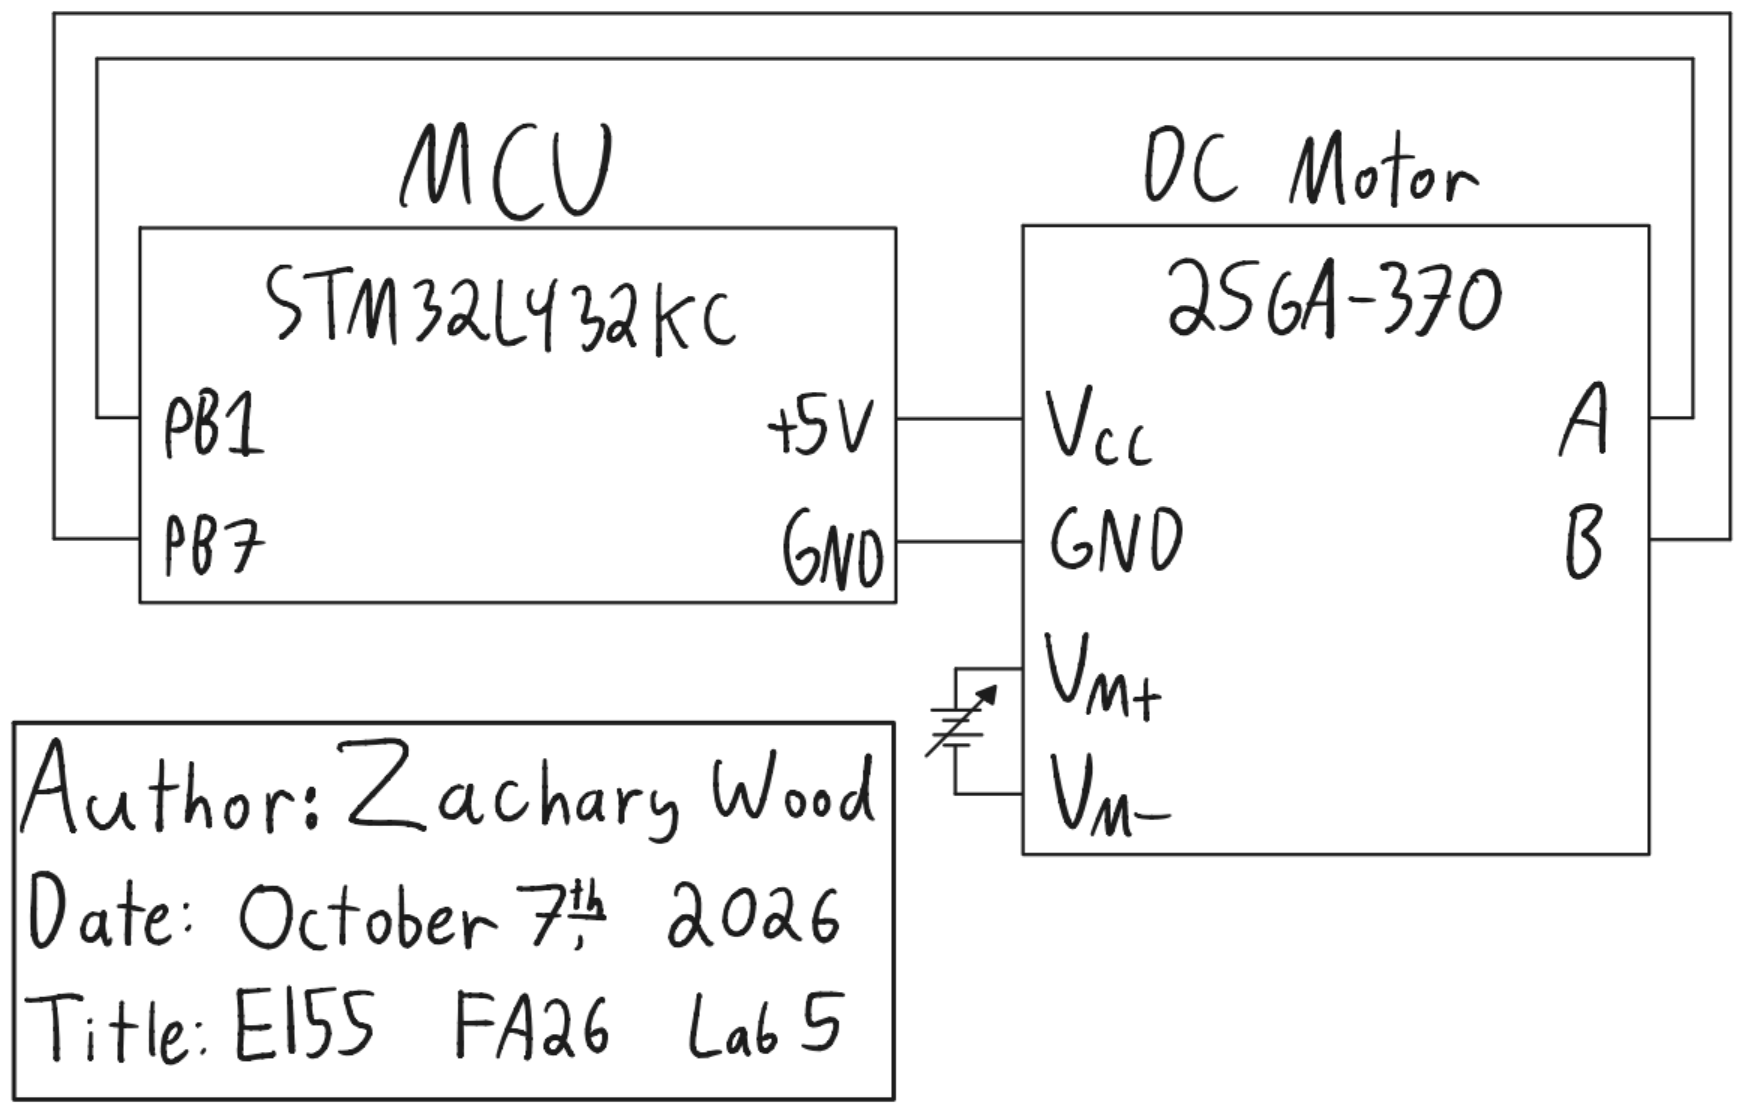
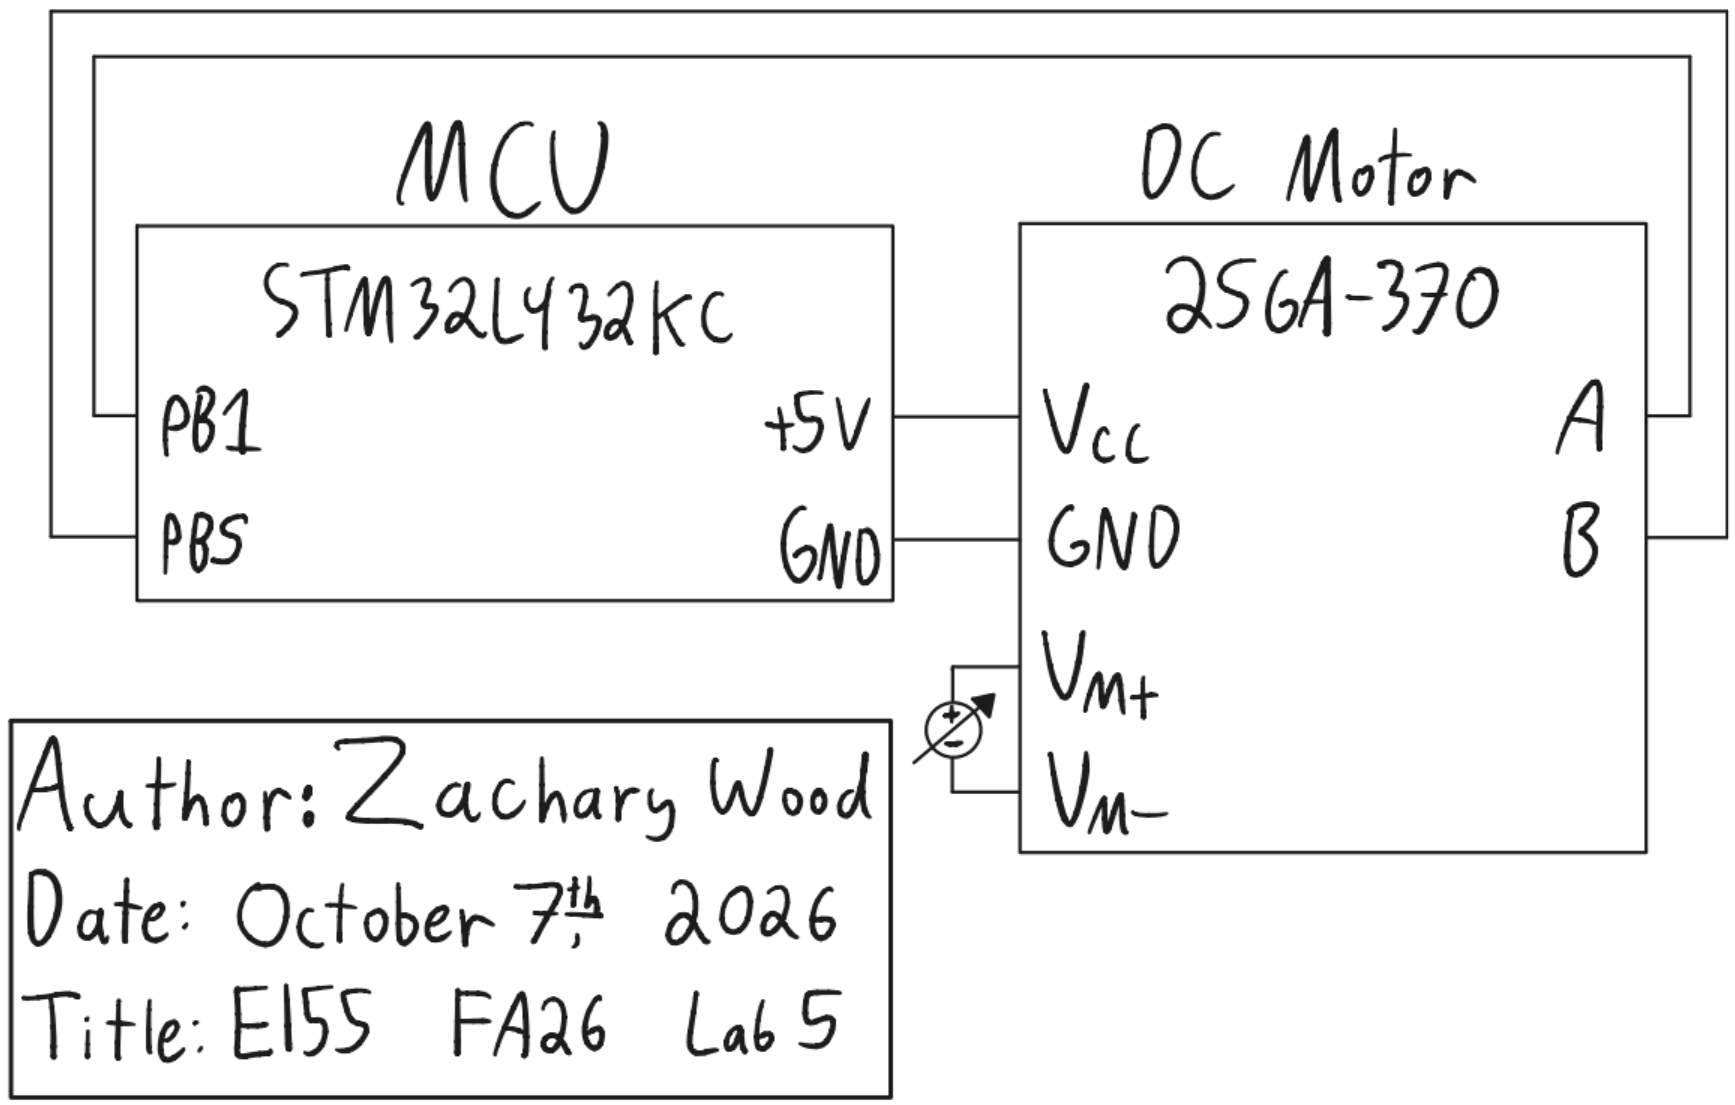
Add: start of AI prototype and updated schematic

diff --git a/labs/lab5/mcu/lib/STM32L432KC_EXTI.h b/labs/lab5/mcu/lib/STM32L432KC_EXTI.h
@@ -12,9 +12,9 @@
 ///////////////////////////////////////////////////////////////////////////////
 
 // SYSCFG_EXTICRx layout (RM0394 9.2.3-9.2.6)
-#define EXTICR_LINES_PER_REG 4
-#define EXTICR_FIELD_WIDTH   4
-#define EXTICR_FIELD_MASK    0x7U
+#define EXTICR_LINES_PER_REG 4     // Each EXTICR register holds 4 lines
+#define EXTICR_FIELD_WIDTH   4     // Each line gets a 4-bit slot
+#define EXTICR_FIELD_MASK    0x7U  // Only the low 3 bits of a slot are used
 
 ///////////////////////////////////////////////////////////////////////////////
 // Function prototypes

diff --git a/labs/lab5/mcu/lib/STM32L432KC_EXTI.c b/labs/lab5/mcu/lib/STM32L432KC_EXTI.c
@@ -24,9 +24,9 @@ void extiEnableEdges(int gpio_pin, IRQn_Type irq) {
     SYSCFG->EXTICR[reg] |= (uint32_t)gpioPinToPort(gpio_pin) << shift;
 
     // Unmask the line and trigger on both edges
-    EXTI->IMR1  |= 1U << line;
-    EXTI->RTSR1 |= 1U << line;
-    EXTI->FTSR1 |= 1U << line;
+    EXTI->IMR1  |= 1U << line;   // Interrupt mask: 1 = enabled
+    EXTI->RTSR1 |= 1U << line;   // Rising edge trigger
+    EXTI->FTSR1 |= 1U << line;   // Falling edge trigger
 
     // Enable the line's interrupt in NVIC_ISER
     NVIC_EnableIRQ(irq);
